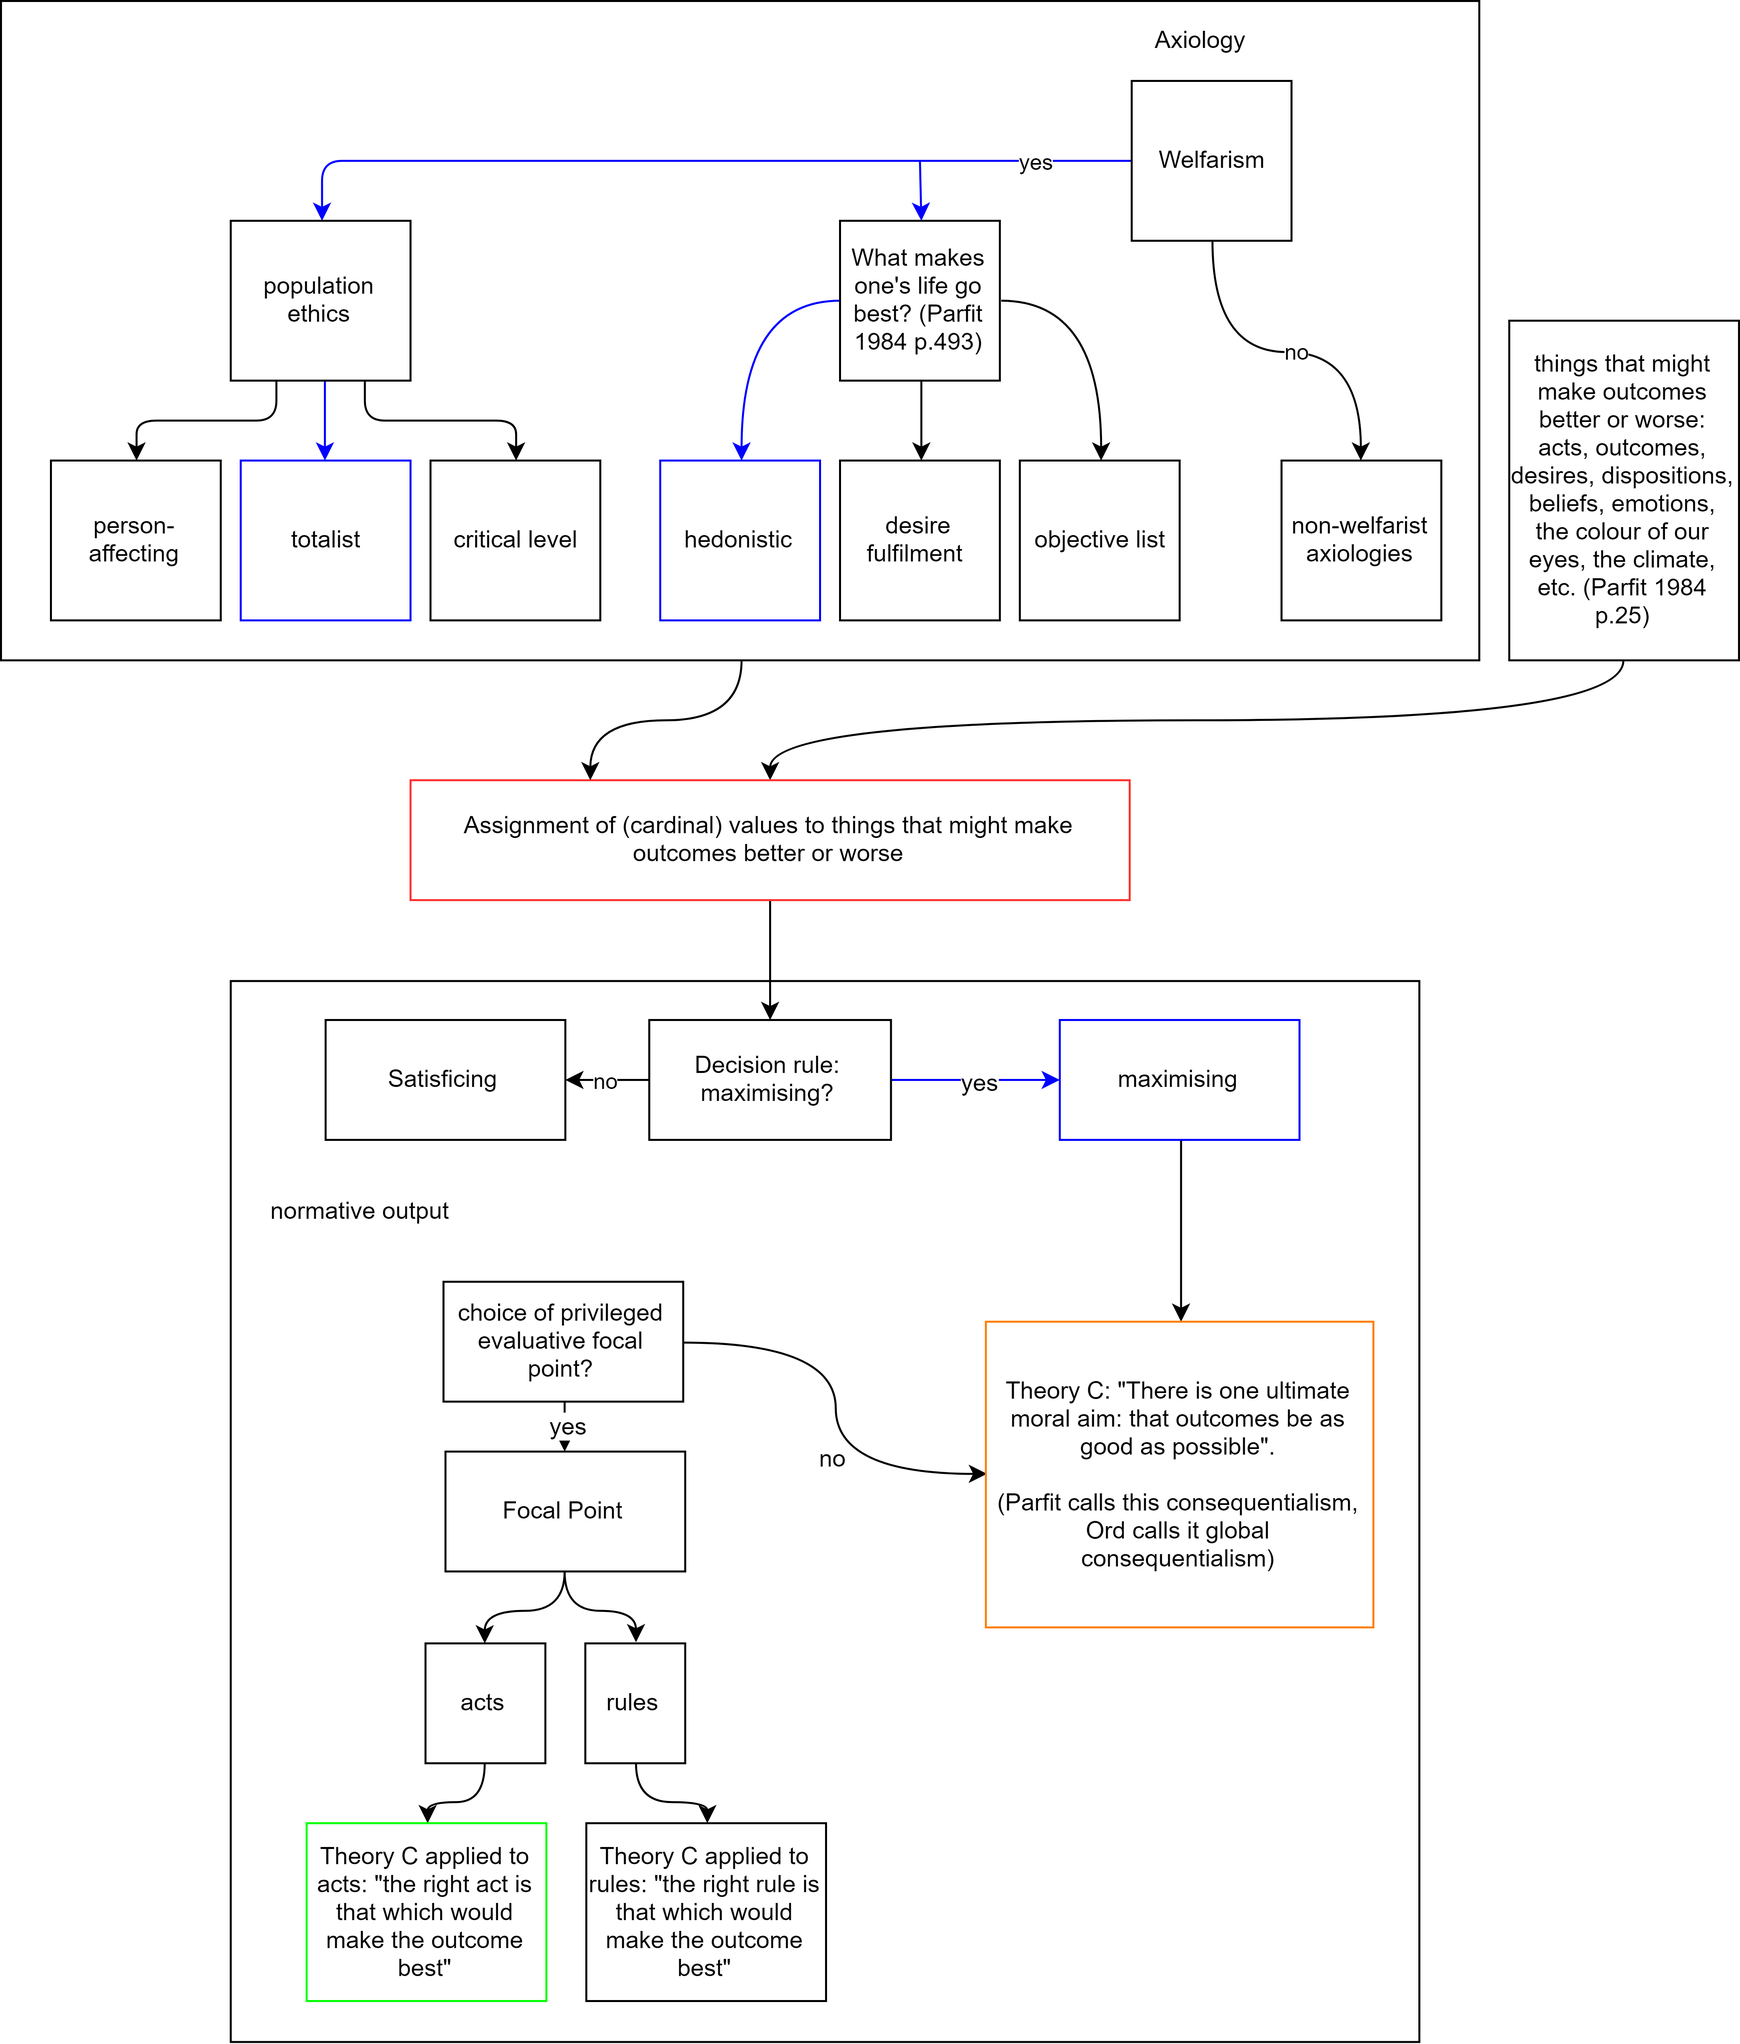
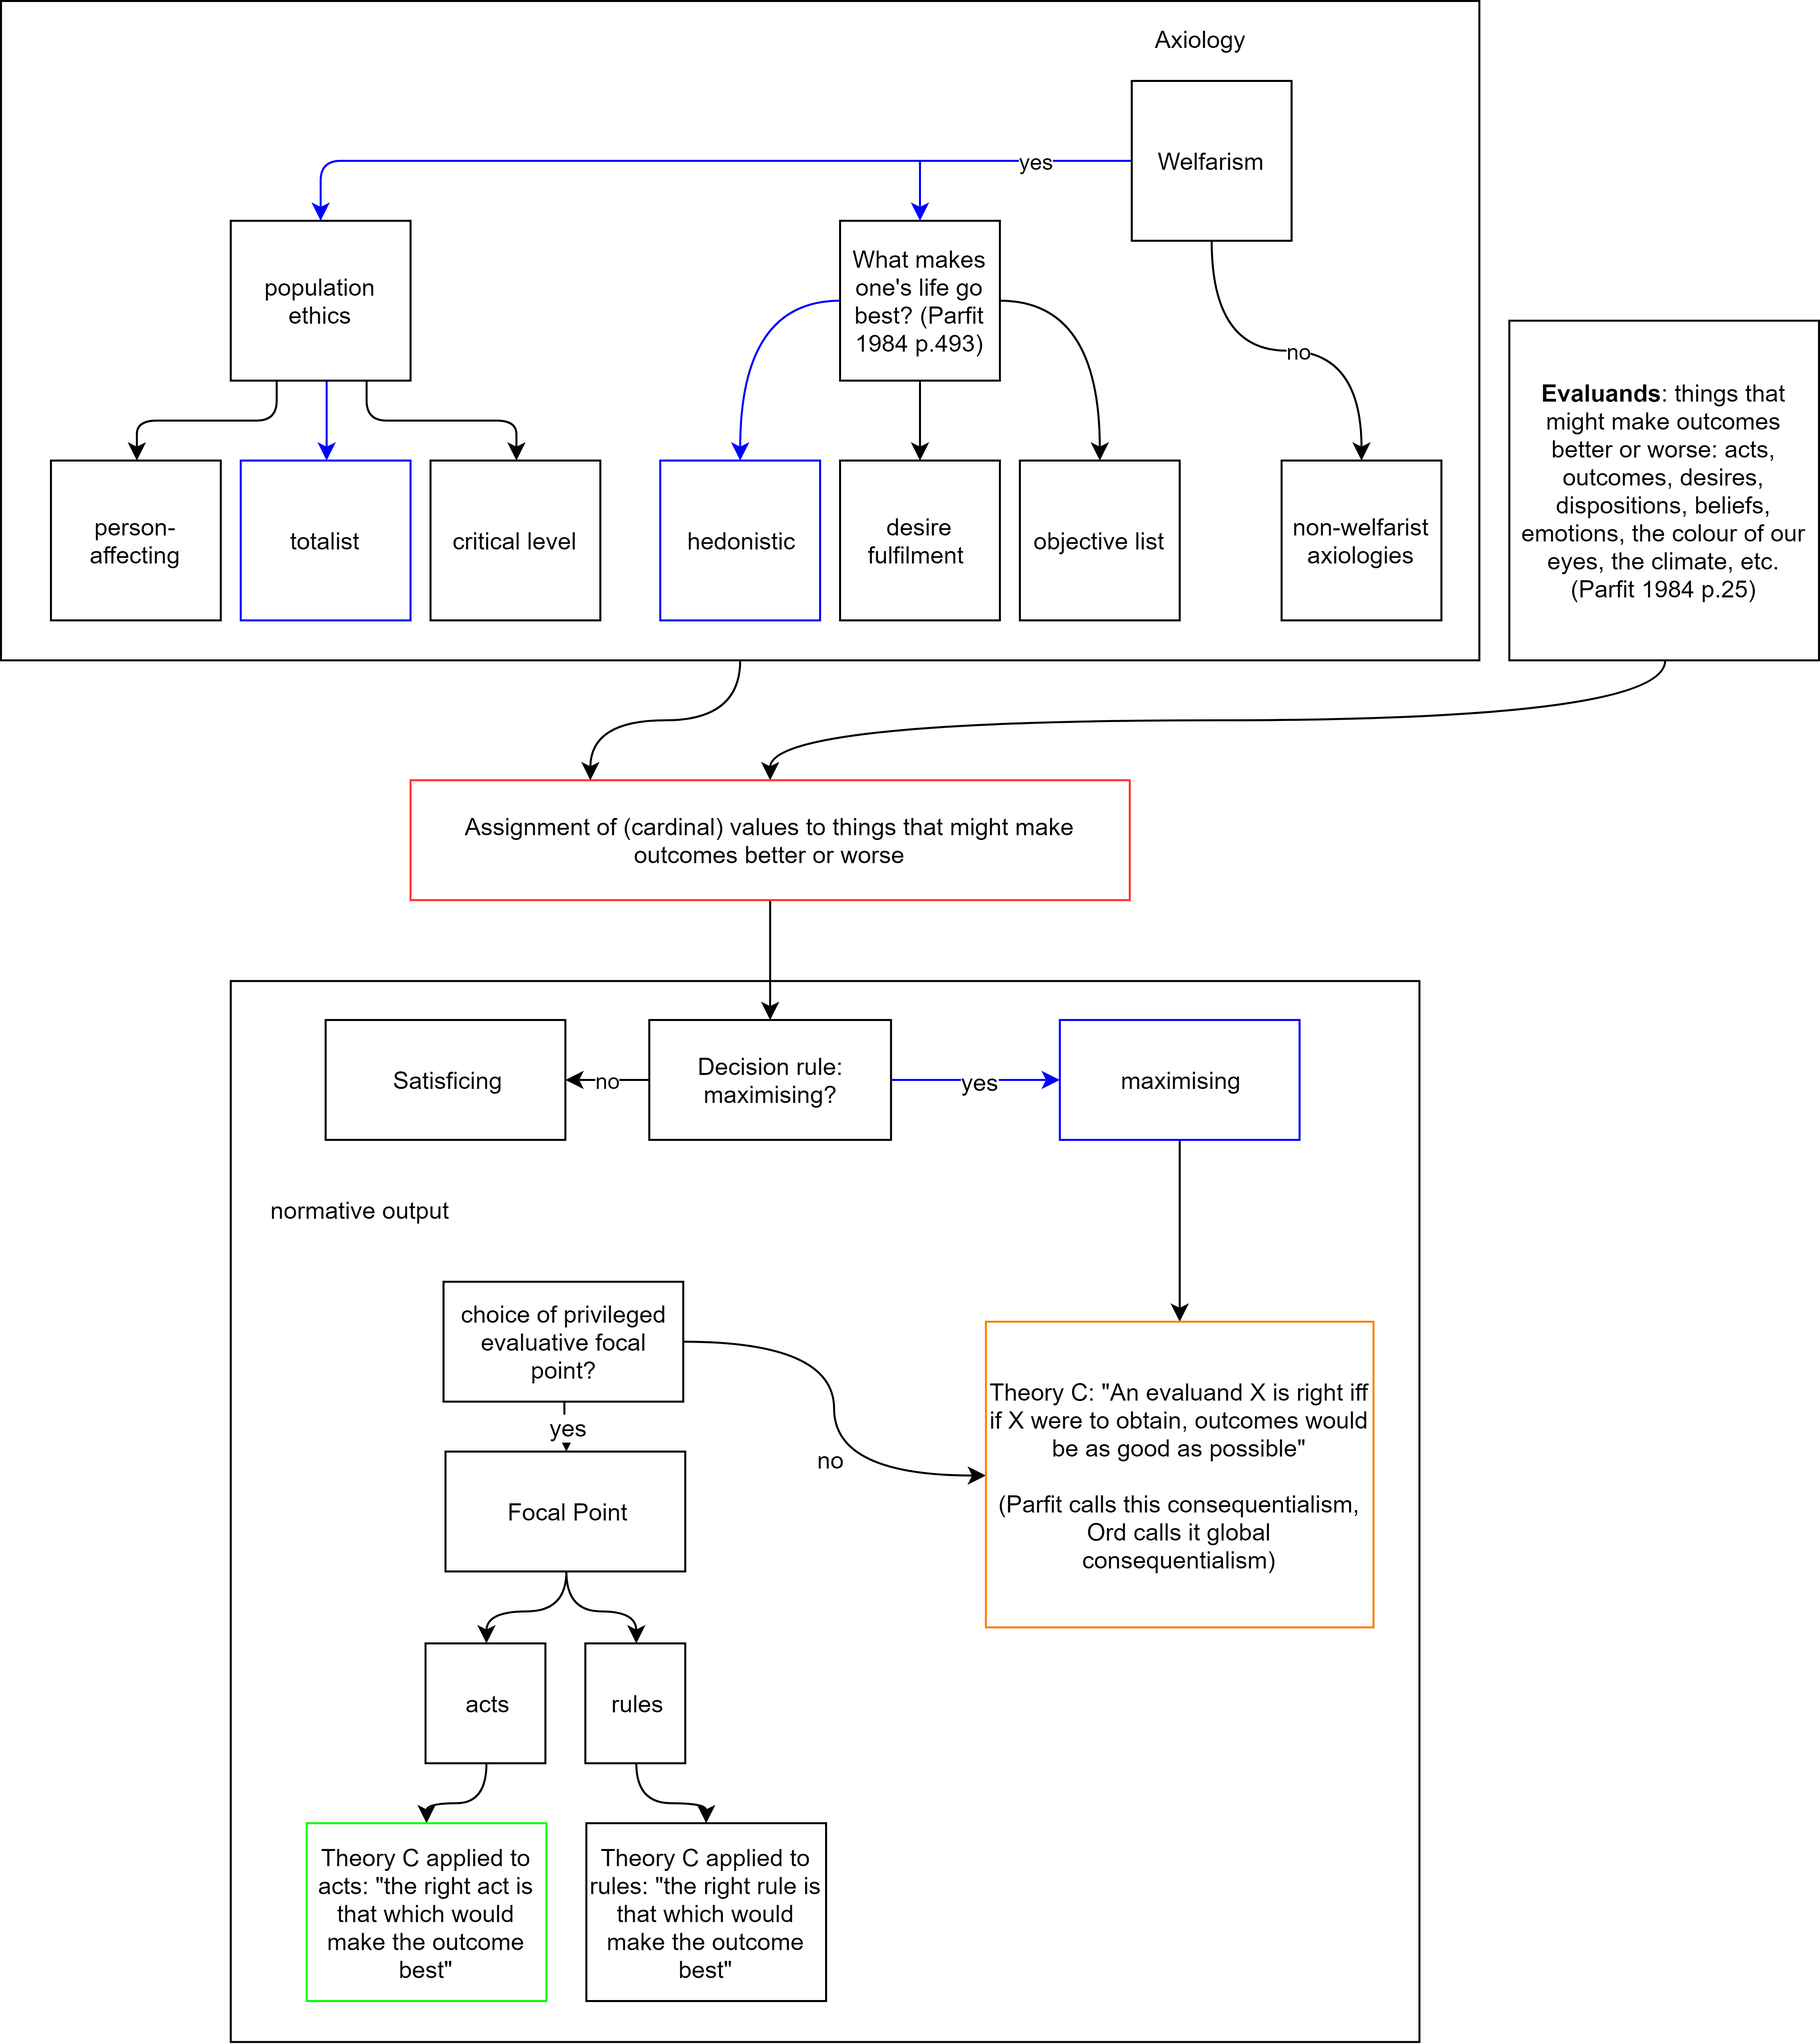
edits (richard's feedback)

diff --git a/_posts/2018-03-13-utilitarianism.md b/_posts/2018-03-13-utilitarianism.md
@@ -3,8 +3,6 @@ layout: post
 title: "The formal structure of ethical theories"
 ---
 
-_Note: absolutely nothing new here. I wrote this for exam revision._
-
 What is utilitarianism? Utilitarianism is an ethical theory. It states that each of us ought to do whatever maximises the sum of everybody's happiness. There are many ways to precisify this slogan, and hence many flavours of utilitarianism. The simplest one is hedonistic total utilitarianism. This diagram illustrates how someone who follows the blue lines at each decision node ends up endorsing hedonistic total utilitarianism.
 
 [![consequentialism](../images/consequentialism.png)](/images/consequentialism.png)
@@ -16,14 +14,15 @@ What is utilitarianism? Utilitarianism is an ethical theory. It states that each
 {:toc} 
 
 # What is consequentialism?
-
-Any consequentialist theory (any variant of theory C) combines a _cardinal axiology_ and a _maximising decision rule_.  
+Any consequentialist theory combines a _cardinal axiology_ and a _decision rule_ that depends only on this axiology. [SEP](https://plato.stanford.edu/entries/consequentialism/) tells us that consequentialism is the view that moral rightness depends only on consequences.
 
 An axiology is a ranking of states of affairs in terms of better and worse overall. A cardinal axiology assigns numerical values to states of affairs. The axiology used by a consequentialist theory must be cardinal in order to be able to apply expected utility theory in cases of uncertainty.
 
 A decision rule, for our purposes, is a procedure that classifies objects of interest (such as possible acts in a certain situation) into right, wrong, or neither. The decision rule is what gives rise to a theory's normative content: its "ought" and "ought not"-statements (much more on this below). A maximising decision rule says that the object which makes states of affairs best (according to some axiology) is right, and all others are wrong.
 
-Theory C says: "There is one ultimate moral aim: that outcomes be as good as possible". It applies to any thing X that might make outcomes better or worse. For any X, it says: "The right X is the X such that if it were to obtain, outcomes would be as good as possible. All others are wrong".
+Consequentialism need not be maximising, it could be satisficing or some other function.
+
+Combining consequentialism with a _maximising decision rule_ gives theory C. Theory C roughly says "There is one ultimate moral aim: that outcomes be as good as possible" (Parfit p.24). It applies to any thing X that might make outcomes better or worse. More precisely, for any X, it says: "The right X is the X such that if it were to obtain, outcomes would be as good as possible. All others are wrong".
 
 # What is hedonistic total utilitarianism?
 Hedonistic total utilitarianism is Theory C combined with a hedonistic, totalist axiology.
@@ -72,10 +71,10 @@ Yet consequentialism is conventionally defined as theory C. In fact, what has re
 The reason for this strange practice has to do with the order in which ethics has progressed. When consequentialist theories were first developed, they were discussed in terms of how they disagreed with the older theories. First, they were shoehorned into the ternary mould of the older theories, which de-emphasised their distinctive structure. Second, they were applied only to acts, like the older theories.
 
 ## Why it matters
-I haven't delved into this pedantic distinction (everyone knows what the god-damned "spirit" of consequentialism is!) just because I'm interested in history of philosophy for its own sake. I think it can actually teach us something. You won't be surprised that what it teaches us is that two common objections to consequentialism are misguided.
+I haven't delved into this pedantic distinction (everyone knows what the god-damned "spirit" of consequentialism is!) just because I'm interested in history of philosophy for its own sake. I think it can actually teach us something. You won't be surprised that what it teaches us is that two common objections to consequentialism are weaker than is typically thought.
 
 ### Demandingness
-Theory C is sometimes said to be too demanding, constantly requiring us to do the _very best_ thing, lest we be hit with the moral opprobrium of the theory. Deontologists think of morality as a matter of whether or not the heavens will part and god will thunder down at you: "WRONG!". And it does seem a bit excessive to be thundered down at every time you don't do literally the most altruistic thing possible. But if we look at the red box, we can see that this is not what consequentialists have in mind. It's more like: if you donate \$3000 to the Against Malaria Foundation, the heavens will part and god will say: "One child under 5 saved in expectation"; if you donate \$6000, the heavens will part and god will say: "Two children under 5 saved in expectation", and so on. Consequentialism needs to be thought of more like an encouragement to maximise good consequences, rather than a master who comes to whip you if you don't attain the exact global maximum.[^railton]
+Theory C is sometimes said to be too demanding, constantly requiring us to do the _very best_ thing, lest we be hit with the moral opprobrium of the theory. Deontologists think of morality as a matter of whether or not the heavens will part and god will thunder down at you: "WRONG!". And it does seem a bit excessive to be thundered down at every time you don't do literally the most altruistic thing possible. But if we look at the red box, we can see that this is not what consequentialists have in mind. It's more like: if you donate \$3000 to the Against Malaria Foundation, the heavens will part and god will say: "One child under 5 saved in expectation"; if you donate \$6000, the heavens will part and god will say: "Two children under 5 saved in expectation", and so on. Consequentialism needs to be thought of more like an encouragement to maximise good consequences, rather than a master who comes to whip you if you don't attain the exact global maximum.[^railton] This dampens, but does not eliminate, demandingness-based anti-consequentialist intuitions.
 
 ### Decision-making and motivation
 Act-consequentialism is often said to be self-defeating in some damaging way. For example: Making decisions by means of consequentialist calculation might lead to a sort of “alienation” between one’s affections and one’s deliberative self – one that in turn leads to a sense of loneliness and emptiness, and is destructive to valuable relationships. Hence even a consequentialist should not, by his own lights, desire that people make decisions by explicit appeal to consequentialist reasoning. Hence Bernard Williams writes “Utilitarianism’s fate is to usher itself from the scene” (‘A critique of utilitarianism’, p.134)[^greaves]. In part I of Reasons and Persons, Parfit painstakingly wipes the floor with these objections. But the solution would have been more obvious had we paid attention to theory C rather than only to act-consequentialism. Theory C (Ord's 'global' consequentialism[^ordthesis]) simply says: "The right explicit moral reasoning is that which makes things best", "the right motive is that which makes things best", "the right act is that which makes things best", and so on. These statements do not contradict each other. Hence there is nothing self-defeating about consequentialism when applied to decision-making and motivation. A further question is whether _homo sapiens_ are best thought of as "choosing" acts, policies, entire sets of motives, or something else. It's a topic for decision theory and psychology. 
